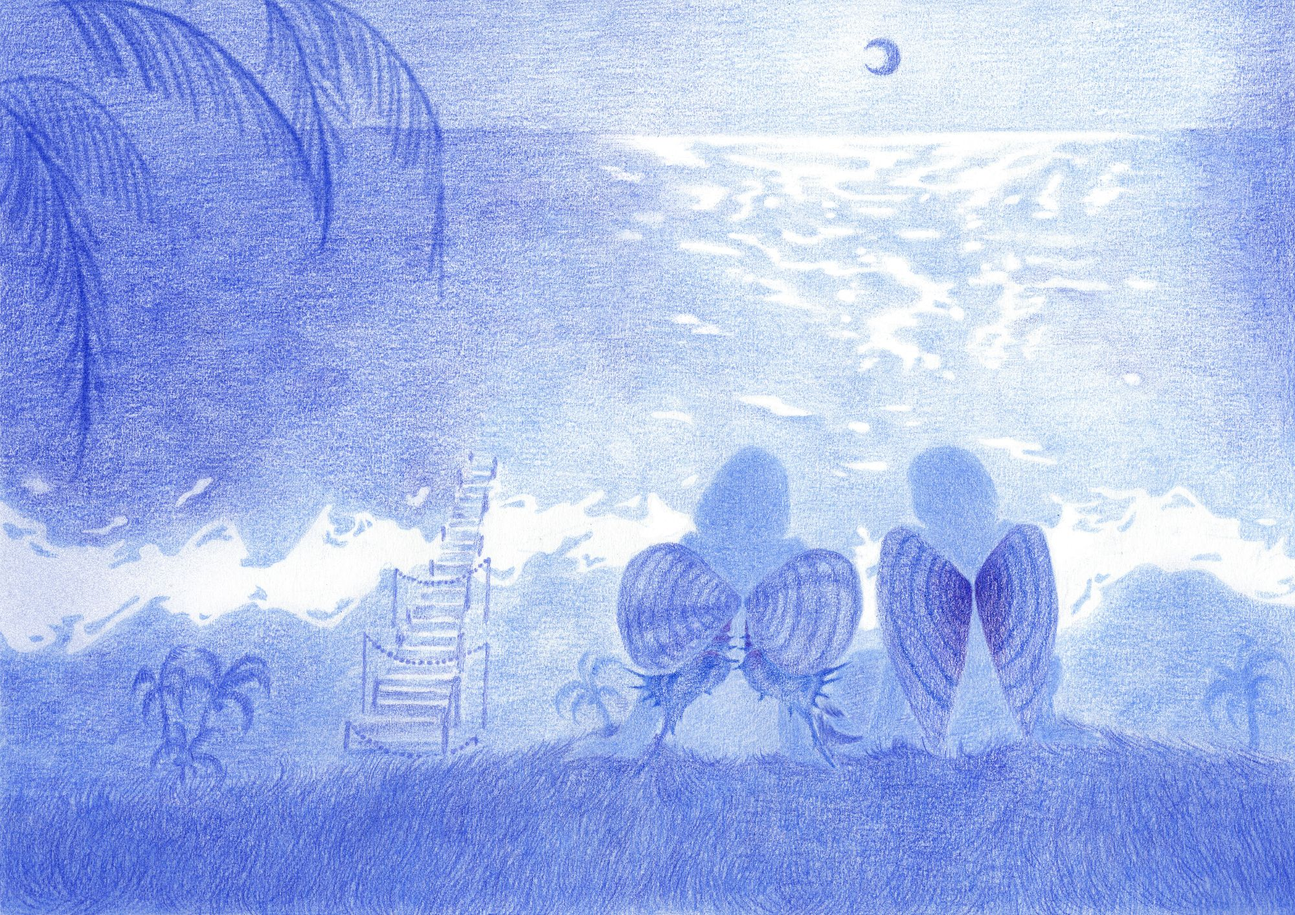
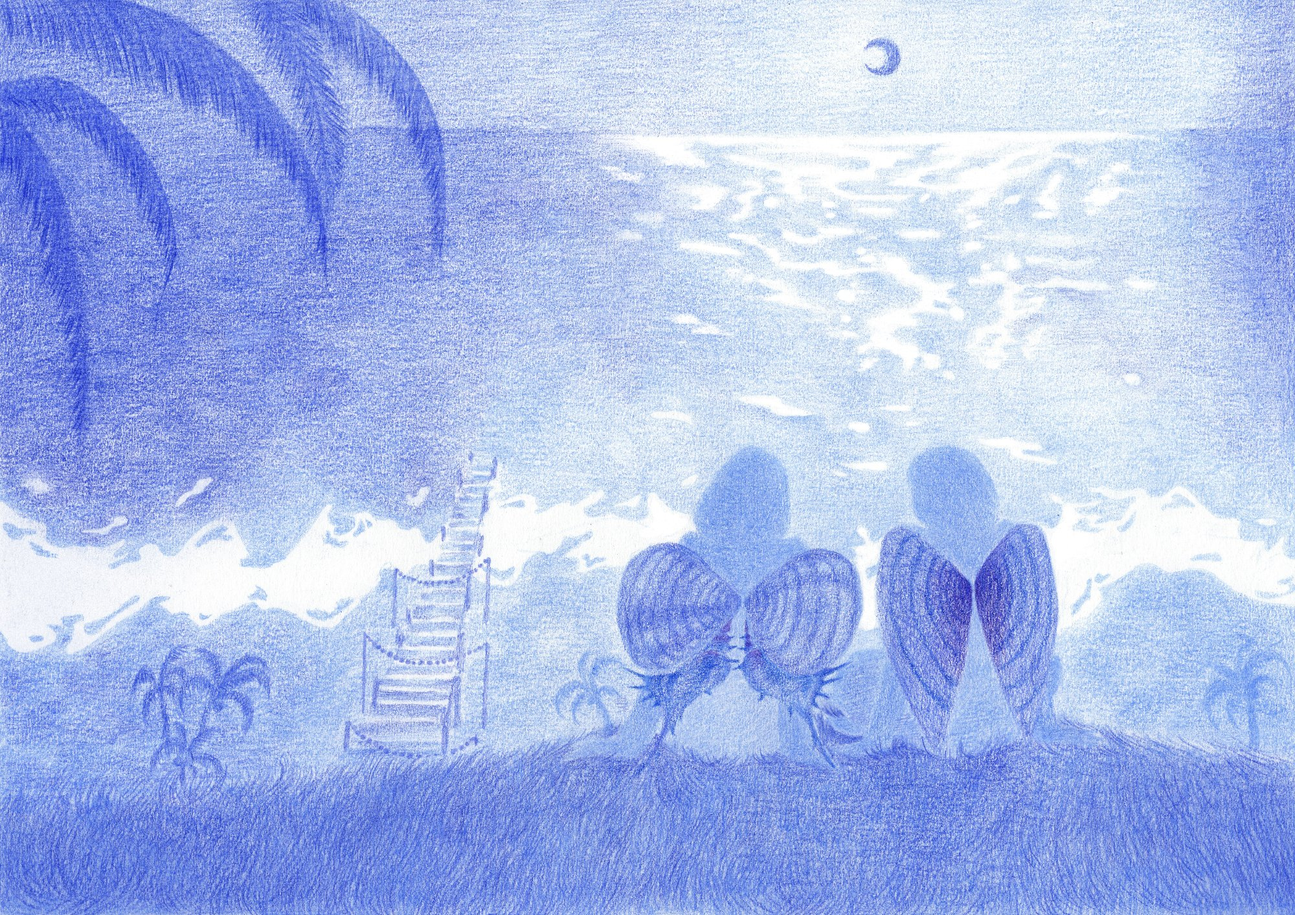
update: revise the previous blogs

diff --git a/content/behind-the-work/log-04-wia-longlist-news/index.md b/content/behind-the-work/log-04-wia-longlist-news/index.md
@@ -17,3 +17,7 @@ Thank you so much to the World Illustration Awards, the AOI, the Directory of Il
 
 Thanks for reading and for your support.
 Have a luminous day!
+
+<a href="https://worldillustrationawards.com/projects/mopo-self-talk-as-night-falls"><u><em>View on official Website</em></u></a>
+
+<a href="https://www.instagram.com/p/DZHcMGhHKew/?igsh=MW1sdHN1dDhnZTMycQ=="><u><em>View on Instagram</em></u></a>
